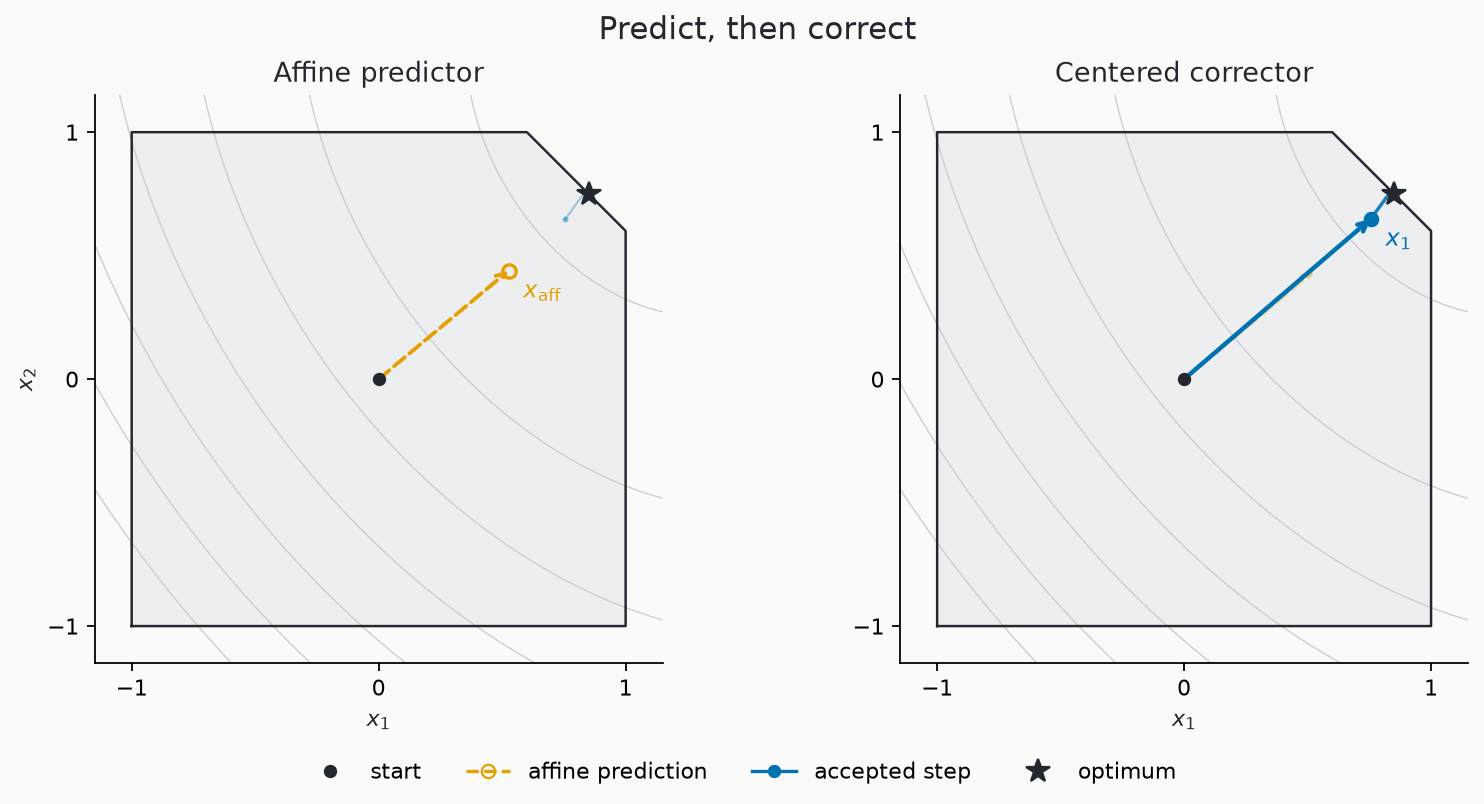
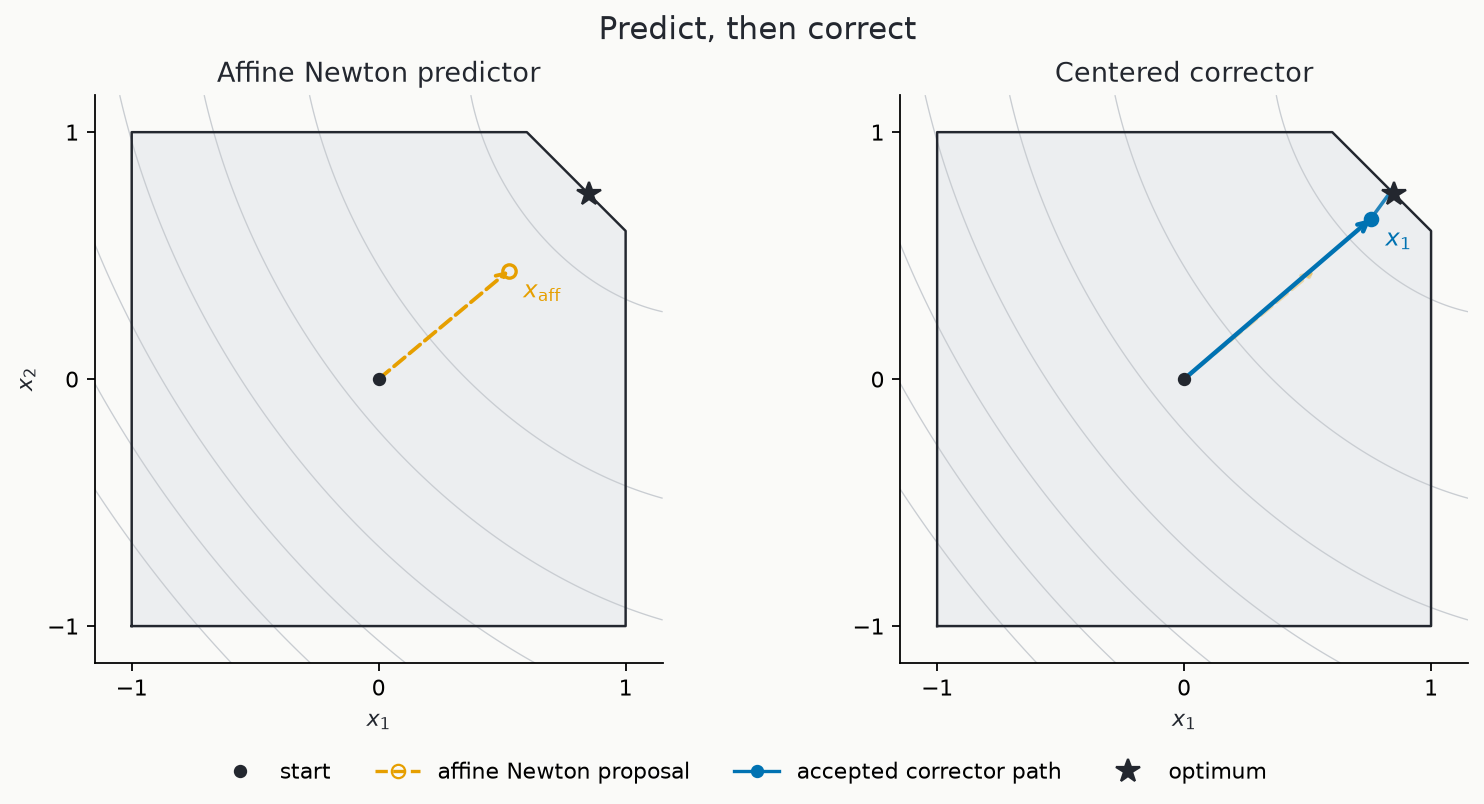
docs: clarify predictor-corrector path

Changed region(s): [[0.496, 0.9328, 0.8369, 0.995], [0.155, 0.0622, 0.372, 0.1244], [0.155, 0.9328, 0.465, 0.995]]

diff --git a/README.md b/README.md
@@ -13,8 +13,8 @@ solves — and re-derives every correctness claim it prints.
 
 ![Predictor and corrector on the pentagon](assets/predict_correct.png)
 
-Orange is the affine prediction and blue is the accepted centered step, both
-computed from the same factorization.
+Orange is the affine Newton proposal and blue is the accepted corrector path,
+both computed from the same factorization.
 
 ## Quick start
 
